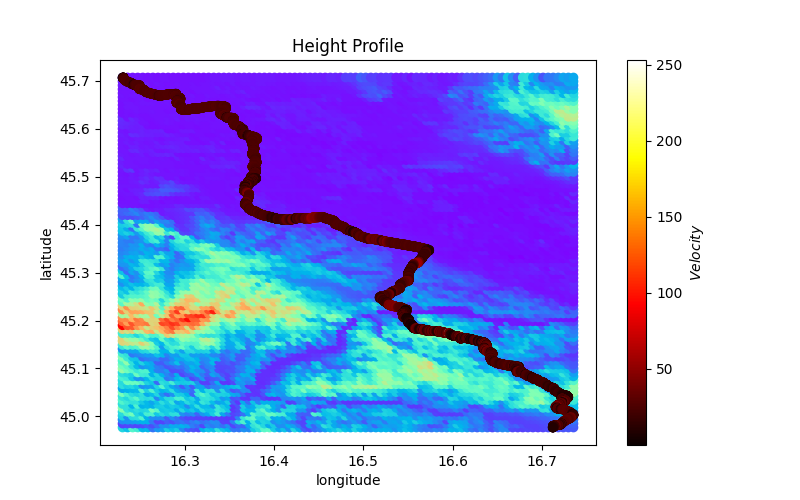
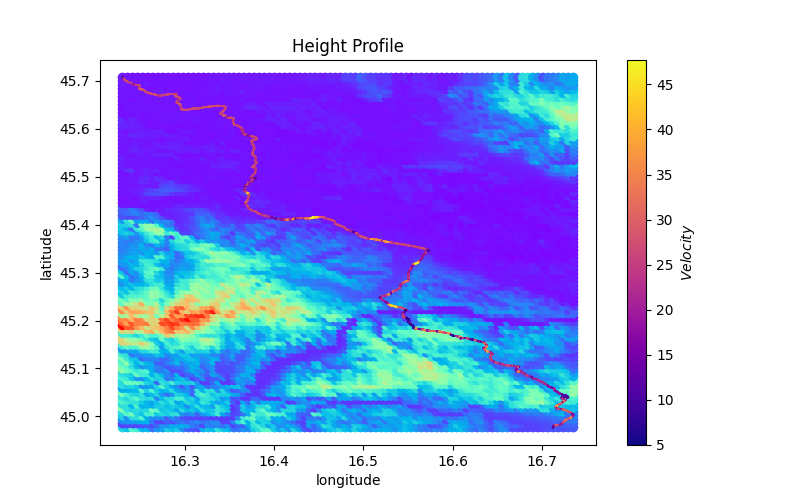
code refactoring for better readability

Changed region(s): [[0.125, 0.15, 0.7188, 0.87], [0.7812, 0.12, 0.875, 0.9]]

diff --git a/results/plotGPXdata.py b/results/plotGPXdata.py
@@ -19,13 +19,25 @@ def plot_Data_Points(x, y, color, Name, xlabel, ylabel):
 ### plot map with track and elevation colorcode ###
 ###################################################
 
+def plot_scatter(x, y, z)
+    plt.figure(constrained_layout=True)
+    ax = plt.scatter(x, y, c = z, cmap = 'hot' )
+    plt.xlabel("longitude")
+    plt.ylabel("latitude")
+    plt.title("Track")
+    plt.colorbar(ax, label=r'$Elevation$')
+    plt.savefig("exports/Track")
+    plt.show()
+    plt.close()
+
+
 plt.figure(constrained_layout=True)
-ax = plt.scatter(long, lat, c = ele, cmap = 'hot' )
+ax = plt.scatter(long, lat, c = ele, s = 0.2, cmap = 'plasma' )
 plt.xlabel("longitude")
 plt.ylabel("latitude")
 plt.title("Track")
 plt.colorbar(ax, label=r'$Elevation$')
-plt.savefig("exports/Track")
+plt.savefig("export/Track")
 plt.show()
 plt.close()
 
@@ -38,8 +50,8 @@ plt.hist(velocities, 500)
 plt.xlabel("Velocity")
 plt.ylabel("frequency")
 plt.title("velocity over time")
-plt.xlim([5, maximum_velo])#plt.legend()
-plt.savefig("exports/Histogram")
+plt.xlim([5, 2*average_velo])#plt.legend()
+plt.savefig("export/Histogram")
 plt.show()
 plt.close()
 
@@ -56,10 +68,9 @@ ax.stock_img()
 ax.add_feature(cfeature.COASTLINE, edgecolor='gray')
 ax.add_feature(cfeature.BORDERS, edgecolor='gray')
 ax.add_feature(cfeature.STATES, edgecolor='gray')
-sc = ax.scatter(long, lat, c=velocities,  cmap='viridis', alpha=0.5, transform=ccrs.PlateCarree())
-sc.set_clim(5, maximum_velo)
+sc = ax.scatter(long, lat, c=velocities,  cmap='plasma', s=0.2, transform=ccrs.PlateCarree(), vmax= 2*average_velo, vmin=5)
 cbar = plt.colorbar(sc, label=r'$Velocity$')
-plt.savefig("exports/Velocity")
+plt.savefig("export/Velocity")
 plt.show()
 plt.close()
 
@@ -73,11 +84,11 @@ Meshing(lon_grid, lat_grid, Data_to_plot[2])
 
 plt.figure(figsize=(8, 5)) # TODO: Automatic width and height
 plt.scatter(lon_grid, lat_grid, c = Data_to_plot[2] , cmap = 'rainbow' )
-ax = plt.scatter(long, lat, c = velocities, cmap = 'hot' )
+ax = plt.scatter(long, lat, c = velocities, s = 0.1, cmap = 'plasma' , vmax= 2*average_velo, vmin=5)
 plt.xlabel("longitude")
 plt.ylabel("latitude")
 plt.title("Height Profile")
 cbar = plt.colorbar(ax, label=r'$Velocity$')
-plt.savefig("exports/Height Profile")
+plt.savefig("export/Height Profile")
 plt.show()
 plt.close()

diff --git a/GPX_File_Auswerten.py b/GPX_File_Auswerten.py
@@ -18,9 +18,9 @@ from pandas import json_normalize
 ## TODO:
 ## Namingconvention, Iteration x,y gleichgross, bei Geschwindigkeit = 0 Daten loeschen
 ##Ziele:
-    ## Histogram geschwindigkeit -> done
-    ## Heatmap geschwindigkeit -> done
-    ## Steigungen -> done
+    ## plausible maximalgeschwindigkeiten
+    ## Zeitangabe ordentlich
+    ## plots aufraumen
     ## trittfrequenz bei gegebener Uebersetzung -> Tacho wird gebraucht
     ## Errechnete Leistung 
 
@@ -195,7 +195,7 @@ plot_Data_Points(time_seconds[:-1], np.diff(ele), "green", "export/slope", "time
 ###################################################
 
 plt.figure(constrained_layout=True)
-ax = plt.scatter(long, lat, c = ele, cmap = 'hot' )
+ax = plt.scatter(long, lat, c = ele, s = 0.2, cmap = 'plasma' )
 plt.xlabel("longitude")
 plt.ylabel("latitude")
 plt.title("Track")
@@ -231,8 +231,7 @@ ax.stock_img()
 ax.add_feature(cfeature.COASTLINE, edgecolor='gray')
 ax.add_feature(cfeature.BORDERS, edgecolor='gray')
 ax.add_feature(cfeature.STATES, edgecolor='gray')
-sc = ax.scatter(long, lat, c=velocities,  cmap='viridis', alpha=0.5, transform=ccrs.PlateCarree())
-sc.set_clim(5, maximum_velo)
+sc = ax.scatter(long, lat, c=velocities,  cmap='plasma', s=0.2, transform=ccrs.PlateCarree(), vmax= 2*average_velo, vmin=5)
 cbar = plt.colorbar(sc, label=r'$Velocity$')
 plt.savefig("export/Velocity")
 plt.show()
@@ -248,7 +247,7 @@ Meshing(lon_grid, lat_grid, Data_to_plot[2])
 
 plt.figure(figsize=(8, 5)) # TODO: Automatic width and height
 plt.scatter(lon_grid, lat_grid, c = Data_to_plot[2] , cmap = 'rainbow' )
-ax = plt.scatter(long, lat, c = velocities, cmap = 'hot' )
+ax = plt.scatter(long, lat, c = velocities, s = 0.1, cmap = 'plasma' , vmax= 2*average_velo, vmin=5)
 plt.xlabel("longitude")
 plt.ylabel("latitude")
 plt.title("Height Profile")

diff --git a/analysis/analysis.py b/analysis/analysis.py
@@ -109,7 +109,6 @@ def data_cleansing(longitude, latitude, elevation, time):
     return long, lat, ele, time_seconds
 
 def data_calculations(longitude, latitude, elevation, time_seconds):
-    delta_t = np.diff(time_seconds)
     Distance = distance_between_coordinates(longitude, latitude, elevation)
     velocities = 3.6*(Distance / np.diff(time_seconds))
     #Power = estimated_Performance(100, elevation)  ->> TODO
